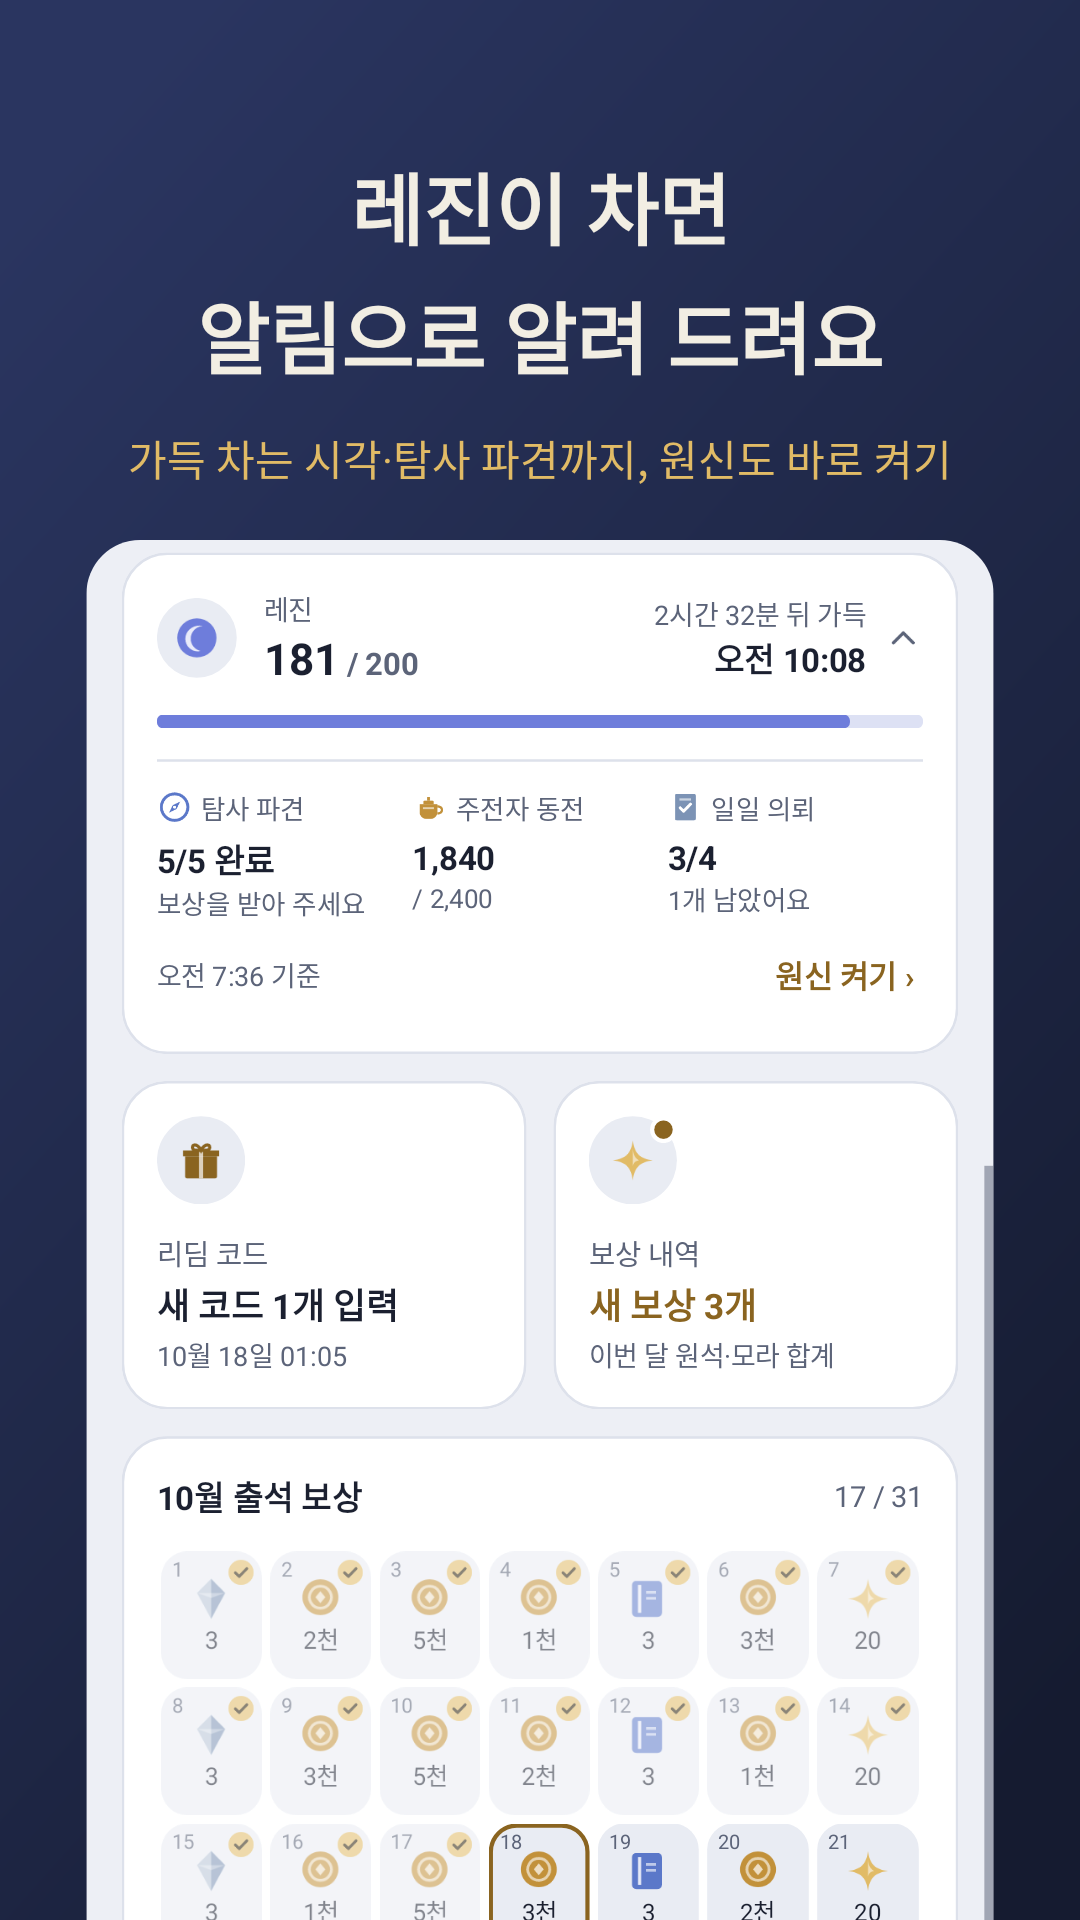
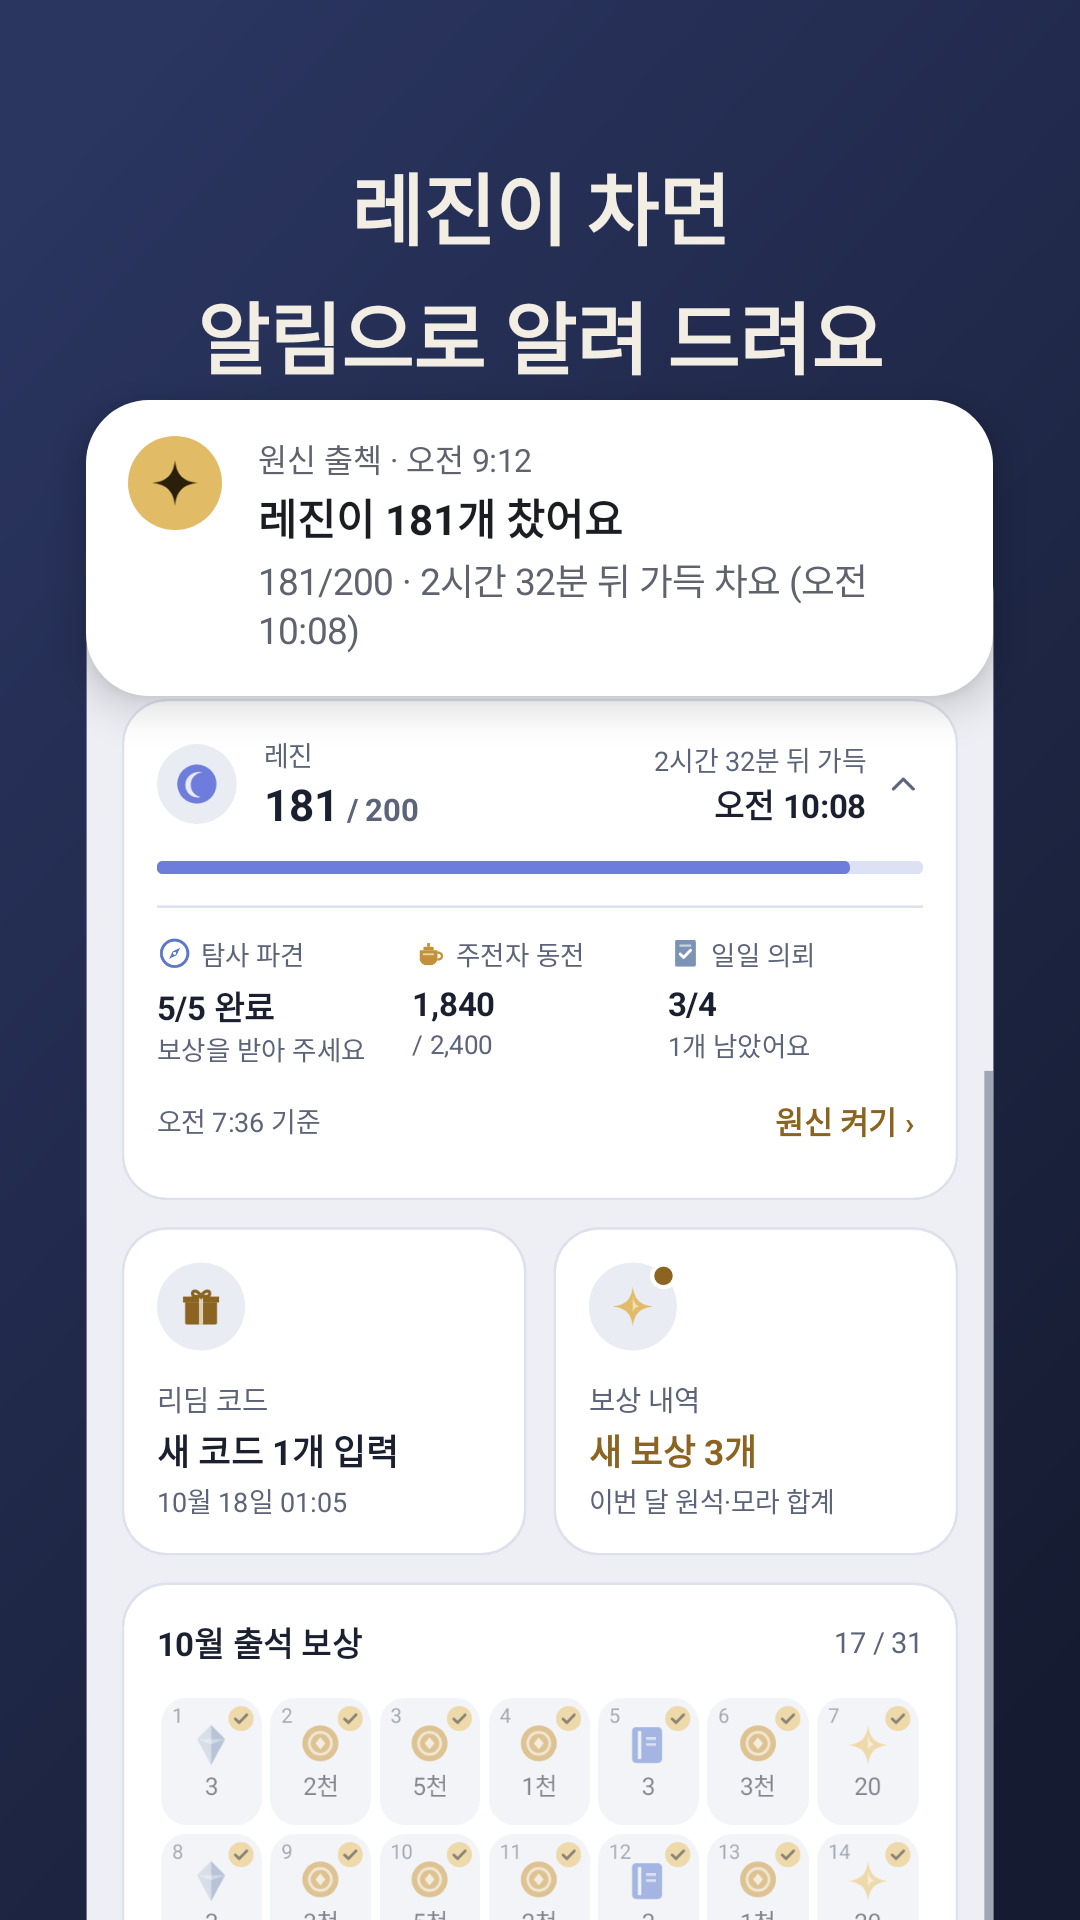
Store screenshots: show the actual redeem and resin notifications

diff --git a/app/src/test/java/kr/sumi/checkin/StoreAssetsTest.kt b/app/src/test/java/kr/sumi/checkin/StoreAssetsTest.kt
@@ -126,6 +126,7 @@ class StoreAssetsTest {
         state: MainUiState, night: Boolean, title: String, sub: String,
         scrollTo: Int? = null, aboveDp: Int = 44, tablet: Boolean = false, history: HistoryUiState? = null,
         custom: ((android.content.Context) -> View)? = null, settings: Boolean = false,
+        headsUp: Triple<String, String, String>? = null,
     ) {
         // 휴대폰: 앱 화면은 1080×2160(420dpi)으로 그리고, 스크린샷 틀은 1080×1920이다.
         val w = if (tablet) 1440 else 1080
@@ -192,7 +193,7 @@ class StoreAssetsTest {
                 setTypeface(typeface, Typeface.BOLD)
                 setTextColor(context.getColor(R.color.hero_ink))
             })
-            addView(TextView(context).apply {
+            if (headsUp == null) addView(TextView(context).apply {
                 text = sub
                 textSize = 16f * textScale
                 gravity = Gravity.CENTER
@@ -204,6 +205,14 @@ class StoreAssetsTest {
             setBackgroundResource(R.drawable.ic_launcher_background)
             addView(screen, FrameLayout.LayoutParams(w, appH))
             addView(caption, FrameLayout.LayoutParams(MATCH_PARENT, WRAP_CONTENT))
+            // 앱을 열지 않아도 오는 알림: 화면 위쪽 가장자리에 걸쳐 띄운다(부제 대신).
+            headsUp?.let { (time, title, body) ->
+                val cardW = (w * scale).toInt()
+                addView(headsUpCard(context, time, title, body, textScale), FrameLayout.LayoutParams(cardW, WRAP_CONTENT).apply {
+                    leftMargin = (w - cardW) / 2
+                    topMargin = (400 * k).toInt()
+                })
+            }
         })
     }
 
@@ -253,6 +262,33 @@ class StoreAssetsTest {
             addView(notification("오전 1:05", "리딤 코드 2개를 받았어요", "VesnaOnPatrol, EPIC2026 · 게임 우편함에서 받으세요."))
             addView(notification("오전 1:03", "원신 출첵 완료", "출첵 완료! (17일째)\n보상: 원석 x20"),
                 LinearLayout.LayoutParams(MATCH_PARENT, WRAP_CONTENT).apply { topMargin = dp(8) })
+        }
+    }
+
+    /** 화면 위에 내려온 알림 한 장(안드로이드 밝은 알림 모양). 문구는 Notifier가 실제로 보내는 문구다. */
+    private fun headsUpCard(context: android.content.Context, time: String, title: String, body: String, scale: Float): View {
+        val d = context.resources.displayMetrics.density * scale
+        fun dp(v: Int) = (v * d).toInt()
+        val ink = 0xFF1B1D22.toInt(); val muted = 0xFF5F636E.toInt()
+        return LinearLayout(context).apply {
+            orientation = LinearLayout.HORIZONTAL
+            setPadding(dp(16), dp(14), dp(16), dp(16))
+            background = android.graphics.drawable.GradientDrawable().apply { cornerRadius = dp(24).toFloat(); setColor(0xFFFFFFFF.toInt()) }
+            elevation = dp(10).toFloat()
+            addView(android.widget.ImageView(context).apply {
+                setImageResource(R.drawable.ic_notify)
+                setColorFilter(0xFF2A1F08.toInt())
+                setPadding(dp(7), dp(7), dp(7), dp(7))
+                background = android.graphics.drawable.GradientDrawable().apply {
+                    shape = android.graphics.drawable.GradientDrawable.OVAL; setColor(context.getColor(R.color.gold))
+                }
+            }, LinearLayout.LayoutParams(dp(36), dp(36)).apply { marginEnd = dp(14) })
+            addView(LinearLayout(context).apply {
+                orientation = LinearLayout.VERTICAL
+                addView(TextView(context).apply { text = "원신 출첵 · $time"; textSize = 12f * scale; setTextColor(muted) })
+                addView(TextView(context).apply { text = title; textSize = 16f * scale; setTypeface(typeface, Typeface.BOLD); setTextColor(ink); setPadding(0, dp(2), 0, 0) })
+                addView(TextView(context).apply { text = body; textSize = 14f * scale; setTextColor(muted); setPadding(0, dp(2), 0, 0); setLineSpacing(0f, 1.1f) })
+            }, LinearLayout.LayoutParams(0, WRAP_CONTENT, 1f))
         }
     }
 
@@ -337,6 +373,7 @@ class StoreAssetsTest {
     @Test fun screenshot1Redeem() = screenshot(
         redeemed, night = false, custom = { redeemScene(it, 1080, 2160) },
         title = "방송 리딤코드,\n알아서 입력돼요", sub = "새 코드가 나오면 고른 캐릭터로 자동 입력",
+        headsUp = Triple("오전 1:05", "리딤 코드 2개를 받았어요", "VesnaOnPatrol, EPIC2026 · 게임 우편함에서 받으세요."),
     )
 
     @Test fun screenshot2CheckIn() = screenshot(
@@ -360,8 +397,9 @@ class StoreAssetsTest {
     )
 
     @Test fun screenshot3Resin() = screenshot(
-        resinFull, night = false, scrollTo = R.id.notesCard, aboveDp = 6,
+        resinFull, night = false, scrollTo = R.id.notesCard, aboveDp = 72,
         title = "레진이 차면\n알림으로 알려 드려요", sub = "가득 차는 시각·탐사 파견까지, 원신도 바로 켜기",
+        headsUp = Triple("오전 9:12", "레진이 181개 찼어요", "181/200 · 2시간 32분 뒤 가득 차요 (오전 10:08)"),
     )
 
     @Test fun screenshot7Trust() = screenshot(
@@ -372,6 +410,7 @@ class StoreAssetsTest {
     @Test fun tablet1Redeem() = screenshot(
         redeemed, night = false, custom = { redeemScene(it, 1440, 2190) }, tablet = true,
         title = "방송 리딤코드,\n알아서 입력돼요", sub = "새 코드가 나오면 고른 캐릭터로 자동 입력",
+        headsUp = Triple("오전 1:05", "리딤 코드 2개를 받았어요", "VesnaOnPatrol, EPIC2026 · 게임 우편함에서 받으세요."),
     )
 
     @Test fun tablet2CheckIn() = screenshot(
@@ -395,8 +434,9 @@ class StoreAssetsTest {
     )
 
     @Test fun tablet3Resin() = screenshot(
-        resinFull, night = false, tablet = true,
+        resinFull, night = false, tablet = true, scrollTo = R.id.heroCard, aboveDp = 104,
         title = "레진이 차면\n알림으로 알려 드려요", sub = "가득 차는 시각·탐사 파견까지, 원신도 바로 켜기",
+        headsUp = Triple("오전 9:12", "레진이 181개 찼어요", "181/200 · 2시간 32분 뒤 가득 차요 (오전 10:08)"),
     )
 
     @Test fun tablet7Trust() = screenshot(
